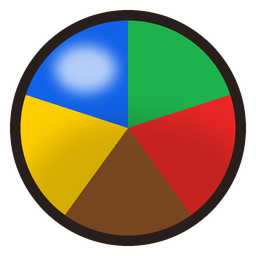
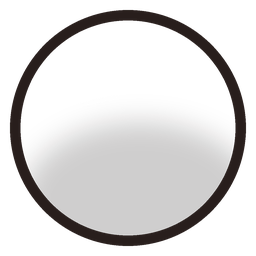
feat: #329 오색구슬을 다섯 색이 계속 바뀌는 구슬로 변경

diff --git a/Assets/Lab/Scripts/Orb/LabFiveColorSparkle.cs b/Assets/Lab/Scripts/Orb/LabFiveColorSparkle.cs
@@ -3,46 +3,59 @@ using UnityEngine;
 namespace C6Lab
 {
     /// <summary>
-    /// 섬광 파훼 보상 오색구슬 (#329)의 모습. 판·투사체 구슬 위에 다섯 색 조각 그림을 얹고, 둘레에 다섯 색이 번갈아
-    /// 물드는 은은한 빛무리, 가장자리를 따라 도는 윤광, 둘레에서 피었다 지는 다섯 색 별빛으로 영롱하게 보이게 하며,
-    /// 박에 맞은 자리에서 다섯 색 별가루를 터뜨린다. 화면 표시만 하며 규칙·물리에는 쓰지 않는다.
-    /// 그림은 Resources/Yaguang/FiveColorOrb, FiveColorSparkle에 있고, 없으면 코드로 그린 다섯 색 원·별을 쓴다.
+    /// 섬광 파훼 보상 오색구슬 (#329)의 모습. 판·투사체 구슬 위에 다섯 색(노랑·초록·파랑·빨강·갈색) 사이를 쉬지 않고
+    /// 부드럽게 건너가는 구슬을 얹는다. 몸통 색이 바뀌는 동안 안쪽에서 다음 색 빛이 천천히 돌아 물들고, 둘레에는 같은 색
+    /// 빛무리, 가장자리를 따라 도는 윤광, 둘레에서 피었다 지는 별빛이 있어 영롱하게 보인다. 박에 맞은 자리에서는
+    /// 다섯 색 별가루를 터뜨린다. 화면 표시만 하며 규칙·물리에는 쓰지 않는다.
+    /// 먹선·그늘·하이라이트 그림은 Resources/Yaguang/FiveColorOrb, 별은 FiveColorSparkle에 있고, 없으면 코드로 그린 것을 쓴다.
     /// </summary>
     public sealed class LabFiveColorSparkle : MonoBehaviour
     {
         public const string ArtSpritePath = "Yaguang/FiveColorOrb";
         public const string SparkleSpritePath = "Yaguang/FiveColorSparkle";
         private const string ArtName = "Five Color Orb";
-        private const int HaloOrder = 10, ArtOrder = 11, RimOrder = 12, TwinkleOrder = 13, BurstOrder = 30;
-        private const int BurstCount = 10, TwinkleCount = 5;
-        // 그림 폭 = 구슬 지름 / 그림 속 원 비율(0.92). 결합 구슬 그림과 같은 크기가 된다.
-        private const float ArtWidth = 2f / .92f, BurstSeconds = .65f, BurstReach = 3.2f;
-        // 빛무리: 구슬 지름의 1.6배, 다섯 색을 HaloColorSeconds마다 하나씩 건너가며 HaloPulseHz로 숨 쉬듯 밝아졌다 어두워진다.
-        private const float HaloSize = 1.6f, HaloColorSeconds = .9f, HaloPulseHz = .8f, HaloMinAlpha = .3f, HaloMaxAlpha = .65f;
+        private const int HaloOrder = 10, BodyOrder = 11, SwirlOrder = 12, ShadeOrder = 13, RimOrder = 14, TwinkleOrder = 15,
+            BurstOrder = 30;
+        private const int BurstCount = 10, TwinkleCount = 5, SwirlCount = 2;
+        // 먹선 그림 폭 = 구슬 지름 / 그림 속 원 비율(0.92). 결합 구슬 그림과 같은 크기가 된다.
+        private const float ArtWidth = 2f / .92f, BodySize = .97f, BurstSeconds = .65f, BurstReach = 3.2f;
+        // 몸통: ColorSeconds마다 다음 색으로 부드럽게 건너간다 (다섯 색 한 바퀴 = 5 × ColorSeconds).
+        private const float ColorSeconds = .9f;
+        // 안쪽 빛: 다음 색들이 몸통 안을 SwirlDegreesPerSecond로 돌며 물든다.
+        private const float SwirlDegreesPerSecond = 55f, SwirlSize = 1.15f, SwirlOffset = .36f, SwirlAlpha = .6f, SwirlWhite = .25f;
+        // 빛무리: 구슬 지름의 1.6배, 몸통과 같은 색으로 HaloPulseHz마다 숨 쉰다.
+        private const float HaloSize = 1.6f, HaloPulseHz = .8f, HaloMinAlpha = .3f, HaloMaxAlpha = .65f;
         // 윤광: 가장자리를 따라 초당 RimDegreesPerSecond 도는 흰 빛줄기.
         private const float RimDegreesPerSecond = 140f, RimAlpha = .85f;
         // 별빛: 둘레 다섯 자리에서 TwinkleSeconds 동안 피었다 지고, 다음엔 조금 옮긴 자리에서 핀다.
         private const float TwinkleSeconds = 1.3f, TwinkleSize = .7f;
+
         /// <summary>
-        /// 그림·별가루의 다섯 색 (원색에 가깝게). 위에서 시계 방향으로 초록 → 빨강 → 갈색 → 노랑 → 파랑.
+        /// 구슬·별가루의 다섯 색 (원색에 가깝게), 건너가는 순서대로 노랑 → 초록 → 파랑 → 빨강 → 갈색 → 다시 노랑.
+        /// 이웃한 색 사이가 연두·청록·보라·적갈·황토처럼 맑게 이어지도록 고른 순서다 (초록↔빨강처럼 섞으면 탁해진다).
         /// 박에 칠하는 색은 다른 구슬과 같은 원소 칠 색이다 (LabModel.FiveColorPaintOrder).
         /// </summary>
         public static readonly Color32[] FiveColors =
         {
-            new Color32(30, 178, 76, 255), new Color32(232, 38, 38, 255), new Color32(140, 82, 38, 255),
-            new Color32(255, 206, 0, 255), new Color32(18, 98, 232, 255)
+            new Color32(255, 206, 0, 255), new Color32(30, 178, 76, 255), new Color32(18, 98, 232, 255),
+            new Color32(232, 38, 38, 255), new Color32(140, 82, 38, 255)
         };
-        private static Sprite artSprite, sparkleSprite;
+        private static Sprite shadeSprite, sparkleSprite, glowSprite, rimSprite, discSprite;
+        private static int attachCount;
 
-        private SpriteRenderer art, halo, rim;
+        private SpriteRenderer body, shade, halo, rim;
+        private readonly SpriteRenderer[] swirls = new SpriteRenderer[SwirlCount];
         private readonly SpriteRenderer[] twinkles = new SpriteRenderer[TwinkleCount];
-        private static Sprite glowSprite, rimSprite;
+        private SpriteRenderer[] burstStars;
         private float radius = .3f, age, dim;
         private bool faceCamera, burst;
         private Vector3[] burstDirections;
 
         /// <summary>오색구슬 그림이 보이는지</summary>
-        public bool Shown => art != null && art.gameObject.activeSelf;
+        public bool Shown => body != null && body.gameObject.activeSelf;
+
+        /// <summary>지금 몸통 색 (다섯 색 사이를 건너가는 중의 색)</summary>
+        public Color BodyColor => ColorAt(age);
 
         /// <summary>
         /// 이 구슬에 오색구슬 그림을 얹는다(이미 있으면 그것을 쓴다). faceCamera는 투사체처럼 3D로 날아가는 구슬용이다.
@@ -58,6 +71,8 @@ namespace C6Lab
                 root.layer = orbRoot.gameObject.layer;
                 root.transform.SetParent(orbRoot, false);
                 look = root.AddComponent<LabFiveColorSparkle>();
+                // 구슬마다 색이 다른 데서 시작해 여러 개가 한꺼번에 같은 색으로 바뀌지 않게 한다.
+                look.age = Mathf.Repeat(++attachCount * .618f, 1f) * ColorSeconds * FiveColors.Length;
                 look.Build();
             }
             look.faceCamera = faceCamera;
@@ -66,7 +81,7 @@ namespace C6Lab
             return look;
         }
 
-        /// <summary>박에 맞은 자리에서 다섯 원소 색 별가루를 한 번 터뜨린다. 스스로 사라진다.</summary>
+        /// <summary>박에 맞은 자리에서 다섯 색 별가루를 한 번 터뜨린다. 스스로 사라진다.</summary>
         public static LabFiveColorSparkle Burst(Vector3 worldPoint, float orbRadius)
         {
             var root = new GameObject("Five Color Sparkle Burst");
@@ -76,11 +91,12 @@ namespace C6Lab
             look.faceCamera = true;
             look.radius = orbRadius > 0f ? orbRadius : .3f;
             look.burstDirections = new Vector3[BurstCount];
+            look.burstStars = new SpriteRenderer[BurstCount];
             for (int i = 0; i < BurstCount; i++)
             {
                 float angle = (i + .37f * (i % 3)) / BurstCount * Mathf.PI * 2f;
                 look.burstDirections[i] = new Vector3(Mathf.Cos(angle), Mathf.Sin(angle), 0f) * (.75f + .25f * ((i * 7) % 4) / 3f);
-                look.AddBurstStar(i);
+                look.burstStars[i] = look.Part("Five Color Burst Star " + i, SparkleSprite(), StarColor(i), BurstOrder);
             }
             look.Update();
             return look;
@@ -88,14 +104,17 @@ namespace C6Lab
 
         public void Show(bool shown)
         {
-            if (art == null) return;
-            if (art.gameObject.activeSelf != shown) art.gameObject.SetActive(shown);
-            if (halo != null) halo.gameObject.SetActive(shown);
-            if (rim != null) rim.gameObject.SetActive(shown);
-            foreach (SpriteRenderer twinkle in twinkles) if (twinkle != null) twinkle.gameObject.SetActive(shown);
+            if (body == null) return;
+            foreach (SpriteRenderer part in new[] { body, shade, halo, rim })
+                if (part != null && part.gameObject.activeSelf != shown) part.gameObject.SetActive(shown);
+            foreach (SpriteRenderer part in swirls) if (part != null) part.gameObject.SetActive(shown);
+            foreach (SpriteRenderer part in twinkles) if (part != null) part.gameObject.SetActive(shown);
         }
 
-        /// <summary>섬광으로 구슬이 하얗게 덮인 정도 (0~1). 덮인 만큼 빛무리·윤광·별빛을 거둬 오색구슬인 걸 들키지 않게 한다.</summary>
+        /// <summary>
+        /// 섬광으로 구슬이 하얗게 덮인 정도 (0~1). 덮인 만큼 오색구슬 그림과 빛을 모두 거둬, 아래의 평범한 결합 구슬이
+        /// 하얀 덮개에 가려 보이게 한다 (오색구슬인 걸 들키지 않는다).
+        /// </summary>
         public void SetGlare(float amount) => dim = float.IsNaN(amount) ? 0f : Mathf.Clamp01(amount);
 
         public void SetRadius(float orbRadius)
@@ -107,19 +126,13 @@ namespace C6Lab
         private void Build()
         {
             halo = Part("Five Color Halo", GlowSprite(), Color.white, HaloOrder);
-            art = Part("Five Color Orb Art", ArtSprite(), Color.white, ArtOrder);
+            body = Part("Five Color Body", DiscSprite(), Color.white, BodyOrder);
+            for (int i = 0; i < SwirlCount; i++) swirls[i] = Part("Five Color Swirl " + i, GlowSprite(), Color.white, SwirlOrder);
+            shade = Part("Five Color Orb Art", ShadeSprite(), Color.white, ShadeOrder);
             rim = Part("Five Color Rim Shine", RimSprite(), Color.white, RimOrder);
             for (int i = 0; i < TwinkleCount; i++)
                 twinkles[i] = Part("Five Color Twinkle " + i, SparkleSprite(), Color.white, TwinkleOrder);
             Pose();
-        }
-
-        // 터질 때 퍼지는 별가루.
-        private SpriteRenderer[] burstStars;
-        private void AddBurstStar(int index)
-        {
-            if (burstStars == null) burstStars = new SpriteRenderer[BurstCount];
-            burstStars[index] = Part("Five Color Burst Star " + index, SparkleSprite(), StarColor(index), BurstOrder);
         }
 
         private void Update()
@@ -153,18 +166,37 @@ namespace C6Lab
 
         private void Pose()
         {
-            if (art == null) return;
-            Vector2 size = art.sprite != null ? (Vector2)art.sprite.bounds.size : Vector2.one;
-            float scale = size.x > 0f ? ArtWidth * radius / size.x : radius;
-            art.transform.localScale = new Vector3(scale, scale, 1f);
-            // 구슬 앞면 바로 앞, 섬광의 하얀 덮개보다는 뒤 (덮개가 오색구슬도 가린다).
-            art.transform.localPosition = new Vector3(0f, 0f, -1.05f * radius);
+            if (body == null) return;
             float shine = 1f - dim;
 
-            // 빛무리: 다섯 색 사이를 부드럽게 건너가며 숨 쉰다.
-            float step = age / HaloColorSeconds;
-            int from = Mathf.FloorToInt(step);
-            Color haloColor = Color.Lerp(StarColor(from), StarColor(from + 1), Mathf.SmoothStep(0f, 1f, step - from));
+            // 몸통: 다섯 색 사이를 쉬지 않고 건너간다.
+            Color bodyColor = ColorAt(age);
+            bodyColor.a = shine;
+            body.color = bodyColor;
+            body.transform.localScale = Vector3.one * (2f * BodySize * radius);
+            body.transform.localPosition = new Vector3(0f, 0f, -1.03f * radius);
+
+            // 안쪽 빛: 곧 올 색이 몸통 안을 돌며 미리 물든다. 조금 밝게 섞어 맑게 비친다 (먼 색을 섞으면 탁해진다).
+            for (int i = 0; i < SwirlCount; i++)
+            {
+                float angle = (SwirlDegreesPerSecond * age + 180f * i) * Mathf.Deg2Rad;
+                Color swirlColor = Color.Lerp(ColorAt(age + ColorSeconds * (.6f + .5f * i)), Color.white, SwirlWhite);
+                swirlColor.a = SwirlAlpha * shine;
+                swirls[i].color = swirlColor;
+                swirls[i].transform.localScale = Vector3.one * (SwirlSize * radius);
+                swirls[i].transform.localPosition = new Vector3(Mathf.Cos(angle) * SwirlOffset * radius,
+                    Mathf.Sin(angle) * SwirlOffset * radius, -1.04f * radius);
+            }
+
+            // 먹선·그늘·하이라이트: 색 위에 얹는다.
+            Vector2 size = shade.sprite != null ? (Vector2)shade.sprite.bounds.size : Vector2.one;
+            float scale = size.x > 0f ? ArtWidth * radius / size.x : radius;
+            shade.transform.localScale = new Vector3(scale, scale, 1f);
+            shade.transform.localPosition = new Vector3(0f, 0f, -1.05f * radius);
+            shade.color = new Color(1f, 1f, 1f, shine);
+
+            // 빛무리: 몸통과 같은 색으로 숨 쉰다.
+            Color haloColor = ColorAt(age);
             haloColor.a = shine * Mathf.Lerp(HaloMinAlpha, HaloMaxAlpha, .5f + .5f * Mathf.Sin(age * HaloPulseHz * Mathf.PI * 2f));
             halo.color = haloColor;
             halo.transform.localScale = Vector3.one * (2f * HaloSize * radius);
@@ -208,15 +240,27 @@ namespace C6Lab
             return renderer;
         }
 
-        /// <summary>별가루 별 하나의 색: 다섯 색이 차례로 돈다.</summary>
-        private static Color StarColor(int index) => FiveColors[index % FiveColors.Length];
+        /// <summary>seconds 시각의 몸통 색: ColorSeconds마다 다음 색으로, 사이는 부드럽게 섞는다.</summary>
+        public static Color ColorAt(float seconds)
+        {
+            float step = Mathf.Max(0f, seconds) / ColorSeconds;
+            int from = Mathf.FloorToInt(step);
+            return Color.Lerp(StarColor(from), StarColor(from + 1), Mathf.SmoothStep(0f, 1f, step - from));
+        }
 
-        /// <summary>가운데가 밝고 바깥으로 부드럽게 사라지는 흰 원 (빛무리용, 색은 코드에서 입힌다).</summary>
+        /// <summary>별가루 별 하나의 색: 다섯 색이 차례로 돈다.</summary>
+        private static Color StarColor(int index) => FiveColors[((index % FiveColors.Length) + FiveColors.Length) % FiveColors.Length];
+
+        /// <summary>가운데가 밝고 바깥으로 부드럽게 사라지는 흰 원 (빛무리·안쪽 빛용, 색은 코드에서 입힌다).</summary>
         private static Sprite GlowSprite() => glowSprite != null ? glowSprite : glowSprite = Generated("Lab five color glow", 64, (u, v) =>
         {
             float fade = Mathf.Clamp01(1f - Mathf.Sqrt(u * u + v * v) / .5f);
             return new Color(1f, 1f, 1f, fade * fade);
         });
+
+        /// <summary>가장자리가 매끈한 흰 원 (몸통용, 색은 코드에서 입힌다).</summary>
+        private static Sprite DiscSprite() => discSprite != null ? discSprite : discSprite = Generated("Lab five color disc", 128, (u, v) =>
+            new Color(1f, 1f, 1f, Mathf.Clamp01((.5f - Mathf.Sqrt(u * u + v * v)) / .012f)));
 
         /// <summary>구슬 가장자리를 따라 한쪽만 밝은 흰 고리 (윤광용). 돌리면 빛줄기가 가장자리를 따라 돈다.</summary>
         private static Sprite RimSprite() => rimSprite != null ? rimSprite : rimSprite = Generated("Lab five color rim", 128, (u, v) =>
@@ -227,20 +271,16 @@ namespace C6Lab
             return new Color(1f, 1f, 1f, band * band * arc);
         });
 
-        private static Sprite ArtSprite()
+        /// <summary>먹선 테두리·아래 그늘·왼쪽 위 하이라이트만 있고 안은 비친 그림. 몸통 색 위에 얹는다.</summary>
+        private static Sprite ShadeSprite()
         {
-            if (artSprite != null) return artSprite;
-            artSprite = Resources.Load<Sprite>(ArtSpritePath);
-            return artSprite != null ? artSprite : artSprite = Generated("Lab five color orb", 64, (u, v) =>
+            if (shadeSprite != null) return shadeSprite;
+            shadeSprite = Resources.Load<Sprite>(ArtSpritePath);
+            return shadeSprite != null ? shadeSprite : shadeSprite = Generated("Lab five color shade", 64, (u, v) =>
             {
                 float d = Mathf.Sqrt(u * u + v * v);
                 float a = Mathf.Clamp01((.5f - d) / .03f);
-                if (d > .44f) return new Color(.11f, .09f, .09f, a);
-                // 위에서 시계 방향으로 다섯 조각
-                float turn = Mathf.Repeat(Mathf.Atan2(u, v) / (Mathf.PI * 2f), 1f);
-                Color color = StarColor(Mathf.Min(4, (int)(turn * 5f)));
-                color.a = a;
-                return color;
+                return d > .42f ? new Color(.11f, .09f, .09f, a) : new Color(1f, 1f, 1f, 0f);
             });
         }
 
@@ -248,7 +288,7 @@ namespace C6Lab
         {
             if (sparkleSprite != null) return sparkleSprite;
             sparkleSprite = Resources.Load<Sprite>(SparkleSpritePath);
-            return sparkleSprite != null ? sparkleSprite : sparkleSprite = Generated("Lab fiveColor sparkle", 32, (u, v) =>
+            return sparkleSprite != null ? sparkleSprite : sparkleSprite = Generated("Lab five color sparkle", 32, (u, v) =>
             {
                 float arm = Mathf.Min(Mathf.Abs(u), Mathf.Abs(v));
                 float reach = Mathf.Max(Mathf.Abs(u), Mathf.Abs(v));

diff --git a/tools/generate_five_color_orb_art.py b/tools/generate_five_color_orb_art.py
@@ -1,7 +1,8 @@
 #!/usr/bin/env python3
 """섬광 파훼 보상 오색구슬 그림 만들기 (#329).
 
-FiveColorOrb.png: 먹선을 두른 다섯 원소 색 조각 구슬 (256×256, 구슬 폭이 그림 폭의 약 0.92).
+FiveColorOrb.png: 오색구슬의 먹선 테두리·그늘·하이라이트 (256×256, 원 폭이 그림 폭의 약 0.92). 안은 비어 있고,
+    색은 코드(LabFiveColorSparkle)가 다섯 색 사이를 건너가며 아래에 칠한다.
 FiveColorSparkle.png: 반짝이는 네 갈래 흰 별 (128×128). 색은 코드에서 입힌다.
 
     python3 tools/generate_five_color_orb_art.py            # Assets/Lab/Resources/Yaguang에 덮어쓰기
@@ -19,31 +20,30 @@ SS = 4
 INK = (40, 30, 28, 255)
 
 
-# LabFiveColorSparkle.FiveColors와 같은 원색에 가까운 다섯 색. 위에서 시계 방향으로 초록 → 빨강 → 갈색 → 노랑 → 파랑.
-FIVE_COLORS = [(30, 178, 76), (232, 38, 38), (140, 82, 38), (255, 206, 0), (18, 98, 232)]
-
-
 def five_color_orb():
+    """먹선 테두리 + 아래 그늘 + 왼쪽 위 하이라이트. 안은 비어 있고, 다섯 색으로 바뀌는 몸통 위에 얹는다."""
     size = 256 * SS
-    image = Image.new('RGBA', (size, size), (0, 0, 0, 0))
-    draw = ImageDraw.Draw(image)
     c, r = size / 2, size * .46
     box = (c - r, c - r, c + r, c + r)
-    for i, color in enumerate(FIVE_COLORS):
-        start = -90 + 72 * i  # PIL 각도는 시계 방향
-        draw.pieslice(box, start, start + 72, fill=color + (255,))
     disc = Image.new('L', (size, size), 0)
     ImageDraw.Draw(disc).ellipse(box, fill=255)
-    # 아래쪽 은은한 그늘과 왼쪽 위 하이라이트
+    zero = Image.new('L', (size, size), 0)
+    # 아래쪽 은은한 그늘 (검은색, 반투명)
     shade = Image.new('L', (size, size), 0)
-    ImageDraw.Draw(shade).ellipse((c - r * .9, c - r * .1, c + r * 1.1, c + r * 1.25), fill=45)
-    shade = Image.composite(shade.filter(ImageFilter.GaussianBlur(size * .05)), Image.new('L', (size, size), 0), disc)
-    image.paste(Image.new('RGBA', (size, size), (20, 14, 12, 255)), (0, 0), shade)
+    ImageDraw.Draw(shade).ellipse((c - r * .9, c - r * .05, c + r * 1.1, c + r * 1.3), fill=50)
+    shade = Image.composite(shade.filter(ImageFilter.GaussianBlur(size * .05)), zero, disc)
+    image = Image.merge('RGBA', (*Image.new('RGB', (size, size), (10, 6, 6)).split(), shade))
+    # 왼쪽 위 하이라이트 (흰색) + 작은 점
     light = Image.new('L', (size, size), 0)
-    ImageDraw.Draw(light).ellipse((c - r * .62, c - r * .7, c - r * .1, c - r * .3), fill=175)
-    light = Image.composite(light.filter(ImageFilter.GaussianBlur(size * .025)), Image.new('L', (size, size), 0), disc)
-    image.paste(Image.new('RGBA', (size, size), (255, 255, 255, 255)), (0, 0), light)
-    draw.ellipse(box, outline=INK, width=int(r * .09))
+    ld = ImageDraw.Draw(light)
+    ld.ellipse((c - r * .62, c - r * .7, c - r * .1, c - r * .3), fill=200)
+    light = Image.composite(light.filter(ImageFilter.GaussianBlur(size * .022)), zero, disc)
+    image = Image.alpha_composite(image, Image.merge('RGBA', (*Image.new('RGB', (size, size), (255, 255, 255)).split(), light)))
+    dot = Image.new('L', (size, size), 0)
+    ImageDraw.Draw(dot).ellipse((c + r * .18, c - r * .62, c + r * .3, c - r * .5), fill=190)
+    image = Image.alpha_composite(image, Image.merge('RGBA', (*Image.new('RGB', (size, size), (255, 255, 255)).split(),
+                                                             dot.filter(ImageFilter.GaussianBlur(size * .006)))))
+    ImageDraw.Draw(image).ellipse(box, outline=INK, width=int(r * .09))
     return image.resize((256, 256), Image.LANCZOS)
 
 
